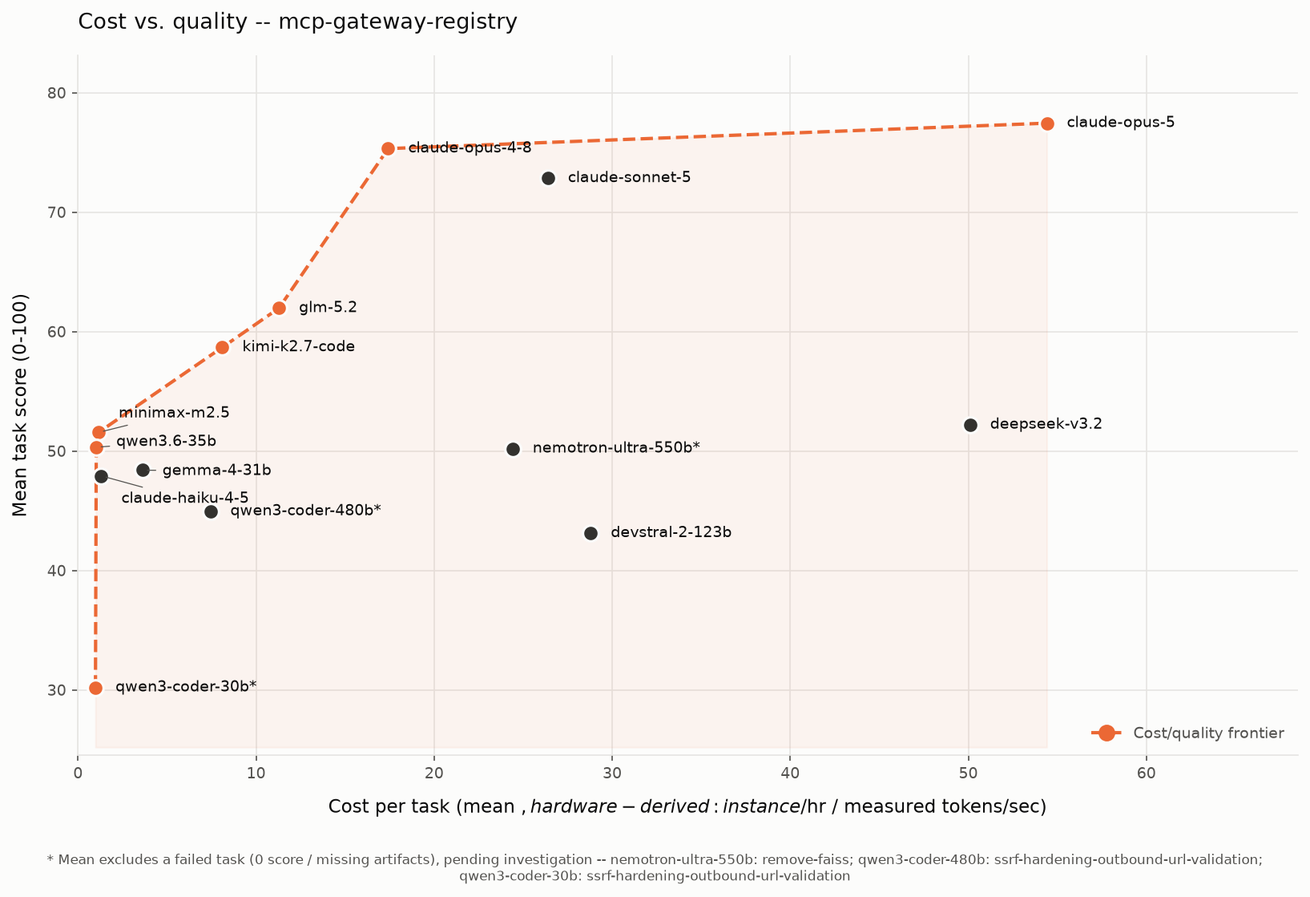
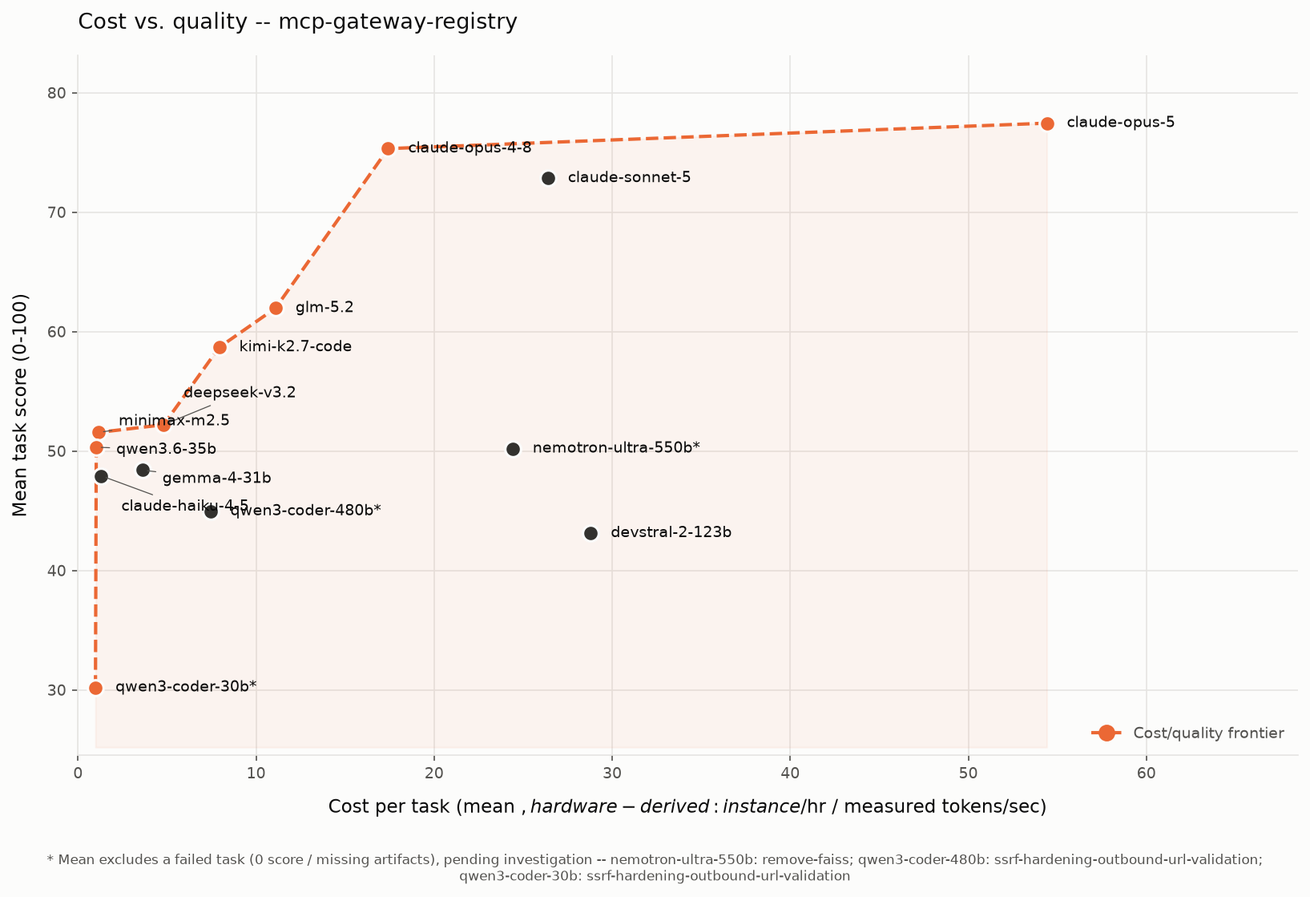
Recompute cost/task from new throughput sweeps; fix stale p5en rate (#58)
* Recompute cost/task from new sweeps; correct p5en rate to pricing.json

PR #57 added throughput sweeps for DeepSeek-V3.2, GLM-5.2, and Kimi-K2.7-Code
but generated their performance-summary.json with a stale $85/hr p5en rate,
contradicting the single-source-of-truth pricing.json ($63.296, set in PR #45).

- Rescale the three summaries' cost fields to the correct $63.296/hr (every
  dollar field is linear in $/hr; throughput counters unchanged, derived/rounded
  fields recomputed exactly as build_performance_summary.py does).
- DeepSeek-V3.2 now has a hardware-derived cost ($4.81/task) instead of the
  token-priced estimate ($50.10) -- it moves onto the cost/quality frontier.
- Recomputed hardware-derived cost/task (per-token rate x each model's actual
  quality-run tokens): GLM-5.2 $11.29 -> $11.09, Kimi $8.10 -> $7.93.
- README table, leaderboard, frontier caption, footnotes, and narrative updated;
  both charts regenerated (14 models, 8 on frontier). Scores are unchanged.

The $/task figures are hardware-derived for every self-hosted model with a
sweep; only Nemotron-Ultra-550B and Devstral-2-123B remain token-priced (`‡`).

* docs: refresh serving-economics doc for re-run sweeps + corrected p5en rate

- agentic-coding-model-comparison.md: update the p5en.48xlarge throughput
  table to the re-run sweeps at the verified $63.30/hr rate -- add deepseek-v3.2
  ($0.59/1M, $4.73/task, cheapest full-box H200 model), refresh kimi
[…]

diff --git a/README.md b/README.md
@@ -32,7 +32,7 @@ To show what the harness produces, we ran it against [agentic-community/mcp-gate
 
 ![Cost vs. quality scatter: mean estimated cost per task against mean task score, for the self-hosted models, with the cost/quality frontier highlighted](docs/images/cost-quality.png)
 
-Mean cost per task (x) against mean task score (y), one point per model. For **self-hosted** models with a throughput sweep, cost is **hardware-derived**: the model's blended cost per token (instance $/hr / measured tokens/sec, see [cost-per-task-methodology.md](self-hosted/vllm/cost-per-task-methodology.md)) times its *actual* input+output tokens per task, averaged over non-failed tasks. The four **Anthropic** points (Opus-5, Opus-4.8, Sonnet-5, Haiku-4.5) are **real token-metered Bedrock bills**; **DeepSeek-V3.2**, **Nemotron-Ultra-550B**, and **Devstral-2-123B** have no sweep so use a token-priced estimate (`‡`) -- comparable as spend, different in kind. The cost/quality frontier runs **Qwen3-Coder-30B ($0.98 / 30.20) -> Qwen3.6-35B ($1.03 / 50.32) -> MiniMax-M2.5 ($1.16 / 51.56) -> Kimi-K2.7-Code ($8.10 / 58.68) -> GLM-5.2 ($11.29 / 61.96) -> Claude-Opus-4.8 ($17.42 / 75.32) -> Claude-Opus-5 ($54.41 / 77.45)**. Everything else is **dominated**: notably Claude-Haiku-4.5 (47.92 at $1.31, just off the frontier behind MiniMax on both axes), Claude-Sonnet-5 (72.84 but $26.39), Gemma-4-31B, Qwen3-Coder-480B ($7.43), Devstral-2-123B ($28.80 est.), Nemotron-Ultra-550B, and DeepSeek-V3.2 ($50.10 est., the priciest). Opus-5 is the top-quality point but its $54.41/task makes it the frontier's expensive extreme -- Opus-4.8 delivers nearly the same quality for a third of the cost. Qwen3-Coder-Next is omitted (not viable on this node). A model's mean excludes any 0-score failed task (footnote ⁵). Regenerate with `uv run scripts/plot_cost_quality.py` (add `--dark`) from `benchmarks/`.
+Mean cost per task (x) against mean task score (y), one point per model. For **self-hosted** models with a throughput sweep, cost is **hardware-derived**: the model's blended cost per token (instance $/hr / measured tokens/sec, see [cost-per-task-methodology.md](self-hosted/vllm/cost-per-task-methodology.md)) times its *actual* input+output tokens per task, averaged over non-failed tasks. The four **Anthropic** points (Opus-5, Opus-4.8, Sonnet-5, Haiku-4.5) are **real token-metered Bedrock bills**; **Nemotron-Ultra-550B** and **Devstral-2-123B** have no sweep so use a token-priced estimate (`‡`) -- comparable as spend, different in kind. The cost/quality frontier runs **Qwen3-Coder-30B ($0.98 / 30.20) -> Qwen3.6-35B ($1.03 / 50.32) -> MiniMax-M2.5 ($1.16 / 51.56) -> DeepSeek-V3.2 ($4.81 / 52.20) -> Kimi-K2.7-Code ($7.93 / 58.68) -> GLM-5.2 ($11.09 / 61.96) -> Claude-Opus-4.8 ($17.42 / 75.32) -> Claude-Opus-5 ($54.41 / 77.45)**. Everything else is **dominated**: notably Claude-Haiku-4.5 (47.92 at $1.31, just off the frontier behind MiniMax on both axes), Claude-Sonnet-5 (72.84 but $26.39), Gemma-4-31B, Qwen3-Coder-480B ($7.43), Nemotron-Ultra-550B ($24.41 est.), and Devstral-2-123B ($28.80 est.). Opus-5 is the top-quality point but its $54.41/task makes it the frontier's expensive extreme -- Opus-4.8 delivers nearly the same quality for a third of the cost. Qwen3-Coder-Next is omitted (not viable on this node). A model's mean excludes any 0-score failed task (footnote ⁵). Regenerate with `uv run scripts/plot_cost_quality.py` (add `--dark`) from `benchmarks/`.
 
 ### Results -- 5 tasks x models
 
@@ -55,13 +55,13 @@ The **Mean** row excludes any task that scored 0 -- a genuine model failure (mis
 
 ⁵ **Genuine model failures, scored 0.** On these `/swe2` runs the failures are: Nemotron-Ultra-550B on `remove-faiss`, Qwen3-Coder-480B on `ssrf`, and Qwen3-Coder-30B on `ssrf`. Each failed to produce a scorable artifact set (typically the model exhausted its turn budget on the implementation step without landing edits, so no `patch.diff`). The judge records a missing/empty-artifact folder as a 0 with a `MODEL FAILURE` verdict rather than dropping it. The **Mean** row is over the tasks each model completed, excluding those failures: 5/5 for Opus-4.8, Sonnet-5, GLM-5.2, Kimi-K2.7-Code, DeepSeek-V3.2, MiniMax-M2.5, Qwen3.6-35B, Gemma-4-31B, Devstral-2-123B; 4/5 for Nemotron-Ultra-550B, Qwen3-Coder-480B, and Qwen3-Coder-30B; Opus-5 ran 4/4 (the `migrate` task was not run -- see `⁸`).
 
-⁶ **GLM-5.2 re-run at the standard 200K window.** GLM-5.2 (`zai-org/GLM-5.2-FP8`, 744B MoE / 40B active, ~750 GB FP8 weights) was served on **8x H200** at a **200K context window** (~$11.29/task, see the cost section) -- the same window the other H200 models use, so it is now apples-to-apples on context (an earlier run used a 300K window and scored 59.20). At 200K it scores **61.96 over 5/5**, ahead of Kimi (58.68) on the same box and the top open-weight model overall.
+⁶ **GLM-5.2 re-run at the standard 200K window.** GLM-5.2 (`zai-org/GLM-5.2-FP8`, 744B MoE / 40B active, ~750 GB FP8 weights) was served on **8x H200** at a **200K context window** (~$11.09/task, see the cost section) -- the same window the other H200 models use, so it is now apples-to-apples on context (an earlier run used a 300K window and scored 59.20). At 200K it scores **61.96 over 5/5**, ahead of Kimi (58.68) on the same box and the top open-weight model overall.
 
 ⁷ **Qwen3-Coder-480B intermittently fails to produce artifacts -- the failure is nondeterministic, not task-specific.** Qwen3-Coder-480B (`Qwen/Qwen3-Coder-480B-A35B-Instruct-FP8`, 480B MoE / 35B active) was served on the **8x H200** node at **TP=4** (a block-FP8 MoE sharding constraint forces TP=4, not 8 -- see [its model guide](self-hosted/vllm/models/qwen3-coder-480b.md)), 200K window. Like the smaller Qwen3-Coder-30B, it periodically explores/edits the repo instead of completing the artifact chain (or exhausts the turn cap), scoring 0 on some tasks. It is a harness-conformance instability of a coder-tuned model, not a serving or context problem.
 
 ⁸ **Claude-Opus-5 ran only 4 of the 5 tasks** (`migrate-ecs-env-vars-to-secrets-manager` was not run), so its 77.45 mean is over those 4 -- not strictly comparable to the 5-task means until it is completed. It is a Path 1 (Bedrock) result like Opus-4.8/Sonnet-5, so its **$54.41/task is a real metered API bill** (its long, thorough implementations run up output tokens -- the most expensive per task measured). It tops the quality table but sits well right of the frontier on cost.
 
-⁹ **Claude-Opus-4.8, Claude-Sonnet-5, and Claude-Haiku-4.5 are Path 1 (Bedrock) results -- their cost is a real metered API bill, not hardware-derived.** All were run through Amazon Bedrock (no self-hosting), so their `$/task` ($17.42, $26.39, and $1.31) is the actual token-metered charge (read from each run's `total_cost_usd`), whereas a self-hosted model's `$/task` is `instance $/hr / measured tokens/sec` x tokens (see the cost section). Comparable as "what you would pay," but different in provenance. Opus-4.8 is on the frontier at $17.42; the best open-weight model is GLM-5.2 (61.96) at $11.29/task, ahead of Kimi-K2.7-Code (58.68) at ~$8/task. Sonnet-5 (72.84) is a close second on quality but pricier per task ($26.39 -- more verbose implementations, more output tokens), so it sits just off the frontier. Haiku-4.5 is the cheapest Claude at $1.31/task but scores 47.92 (mid-pack), so it is dominated on cost by MiniMax-M2.5 ($1.16 / 51.56) and sits just off the frontier.
+⁹ **Claude-Opus-4.8, Claude-Sonnet-5, and Claude-Haiku-4.5 are Path 1 (Bedrock) results -- their cost is a real metered API bill, not hardware-derived.** All were run through Amazon Bedrock (no self-hosting), so their `$/task` ($17.42, $26.39, and $1.31) is the actual token-metered charge (read from each run's `total_cost_usd`), whereas a self-hosted model's `$/task` is `instance $/hr / measured tokens/sec` x tokens (see the cost section). Comparable as "what you would pay," but different in provenance. Opus-4.8 is on the frontier at $17.42; the best open-weight model is GLM-5.2 (61.96) at $11.09/task, ahead of Kimi-K2.7-Code (58.68) at ~$8/task. Sonnet-5 (72.84) is a close second on quality but pricier per task ($26.39 -- more verbose implementations, more output tokens), so it sits just off the frontier. Haiku-4.5 is the cheapest Claude at $1.31/task but scores 47.92 (mid-pack), so it is dominated on cost by MiniMax-M2.5 ($1.16 / 51.56) and sits just off the frontier.
 
 ### Per-model leaderboard (so far)
 
@@ -72,9 +72,9 @@ Mean score is over the tasks each model completed (any 0-score failed task is ex
 | 1 | Claude-Opus-5⁸ | -- (Bedrock) | Amazon Bedrock (Path 1) | **77.45** | $54.41† | 4/5 |
 | 2 | Claude-Opus-4.8⁹ | -- (Bedrock) | Amazon Bedrock (Path 1) | **75.32** | $17.42† | 5/5 |
 | 3 | Claude-Sonnet-5⁹ | -- (Bedrock) | Amazon Bedrock (Path 1) | **72.84** | $26.39† | 5/5 |
-| 4 | GLM-5.2⁶ | 744B (40B) | 8x H200 | **61.96** | $11.29 | 5/5 |
-| 5 | Kimi-K2.7-Code | 1,058.6B (MoE) | 8x H200 | **58.68** | $8.10 | 5/5 |
-| 6 | DeepSeek-V3.2 | 671B (37B) | 8x H200 | **52.20** | $50.10‡ | 5/5 |
+| 4 | GLM-5.2⁶ | 744B (40B) | 8x H200 | **61.96** | $11.09 | 5/5 |
+| 5 | Kimi-K2.7-Code | 1,058.6B (MoE) | 8x H200 | **58.68** | $7.93 | 5/5 |
+| 6 | DeepSeek-V3.2 | 671B (37B) | 8x H200 | **52.20** | $4.81 | 5/5 |
 | 7 | MiniMax-M2.5 | 230B (10B) | 8x H200 (TP=4) | **51.56** | $1.16 | 5/5 |
 | 8 | Qwen3.6-35B-A3B | 35.9B (3B) | g6e.12xlarge | **50.32** | $1.03 | 5/5 |
 | 9 | Nemotron-Ultra-550B | 550B (dense) | 8x H200 | **50.20** | $24.41‡ | 4/5 |
@@ -86,7 +86,7 @@ Mean score is over the tasks each model completed (any 0-score failed task is ex
 | - | Qwen3-Coder-Next | 79.6B (3B) | (needs bigger node) | not viable on g6e.12xlarge | -- | 0 |
 
 † Claude-Opus-5 / Claude-Opus-4.8 / Claude-Sonnet-5 / Claude-Haiku-4.5 `$/task` is a real Bedrock **API bill** (token-metered), not a hardware-derived figure; see footnotes `⁸` and `⁹`.
-‡ DeepSeek-V3.2, Nemotron-Ultra-550B, and Devstral-2-123B are self-hosted but have **no throughput sweep**, so their `$/task` is the harness's **token-priced estimate**, not the hardware-derived (`instance $/hr / tokens-sec`) figure used for the other self-hosted rows -- treat those three costs as indicative and higher-variance until a sweep is run.
+‡ Nemotron-Ultra-550B and Devstral-2-123B are self-hosted but have **no throughput sweep**, so their `$/task` is the harness's **token-priced estimate**, not the hardware-derived (`instance $/hr / tokens-sec`) figure used for the other self-hosted rows -- treat those two costs as indicative and higher-variance until a sweep is run.
 
 **Coming soon:** the open-weight Bedrock models via the LiteLLM proxy (Path 2 -- Mistral, …).
 
@@ -94,10 +94,10 @@ Mean score is over the tasks each model completed (any 0-score failed task is ex
 
 These are early self-hosted numbers on differing hardware; treat them as a starting point, not a final ranking. Cross-path comparisons wait until the Bedrock paths are run.
 
-- **The frontier Anthropic models top the table:** Claude-Opus-5 (77.45, but over 4/5 -- see ⁸), Claude-Opus-4.8 (75.32 over 5/5), and Claude-Sonnet-5 (72.84 over 5/5) lead every self-hosted model by a clear margin -- the best open-weight is GLM-5.2 at 61.96 ($11.29/task, 5/5, re-run at the standard 200K window), just ahead of Kimi-K2.7-Code at 58.68 (~$8/task, 5/5). Opus-4.8 is the best-value frontier point at $17.42; Opus-5 edges it on quality but costs 3x as much ($54.41/task, its long implementations run up output tokens), and Sonnet-5 scores nearly as high but costs more per task ($26.39), so it sits just off the frontier. The cheapest Claude, Haiku-4.5, lands mid-pack (47.92 over 5/5) at just $1.31/task -- but MiniMax-M2.5 beats it on both score and cost, so it sits just off the frontier too.
+- **The frontier Anthropic models top the table:** Claude-Opus-5 (77.45, but over 4/5 -- see ⁸), Claude-Opus-4.8 (75.32 over 5/5), and Claude-Sonnet-5 (72.84 over 5/5) lead every self-hosted model by a clear margin -- the best open-weight is GLM-5.2 at 61.96 ($11.09/task, 5/5, re-run at the standard 200K window), just ahead of Kimi-K2.7-Code at 58.68 (~$8/task, 5/5). Opus-4.8 is the best-value frontier point at $17.42; Opus-5 edges it on quality but costs 3x as much ($54.41/task, its long implementations run up output tokens), and Sonnet-5 scores nearly as high but costs more per task ($26.39), so it sits just off the frontier. The cheapest Claude, Haiku-4.5, lands mid-pack (47.92 over 5/5) at just $1.31/task -- but MiniMax-M2.5 beats it on both score and cost, so it sits just off the frontier too.
 - **Qwen3.6-35B is the value story:** on one mid-range GPU node (a single g6e.12xlarge) it scores 50.32 over all 5 tasks with no failures at a **hardware-derived $1.03 per task** -- roughly a median score at a small fraction of the frontier models' cost, and on the cost/quality frontier.
-- **MiniMax-M2.5 is the best quality-per-dollar in the upper-middle:** 51.56 over 5/5 at **$1.16/task** -- it beats the dense Gemma-4-31B ($3.62) and the much pricier Qwen3-Coder-480B ($7.43) and DeepSeek-V3.2 ($50.10 est.) while costing a fraction, anchoring the frontier just above Qwen3.6-35B.
-- **Cost is hardware-derived where a throughput sweep exists.** For the self-hosted models with a sweep, $/task is `instance $/hr / measured tokens/sec` times that model's real per-task token load; the three Anthropic rows are real Bedrock API bills; DeepSeek-V3.2, Nemotron-Ultra-550B, and Devstral-2-123B lack a sweep and fall back to a token-priced estimate (flagged `‡`). See [cost-per-task-methodology.md](self-hosted/vllm/cost-per-task-methodology.md).
+- **MiniMax-M2.5 is the best quality-per-dollar in the upper-middle:** 51.56 over 5/5 at **$1.16/task** -- it beats the dense Gemma-4-31B ($3.62) and the pricier Qwen3-Coder-480B ($7.43) while costing a fraction, anchoring the frontier just above Qwen3.6-35B. Just above it, **DeepSeek-V3.2** now joins the frontier at **$4.81/task** (52.20, hardware-derived after its throughput sweep -- down from the earlier $50.10 token-priced estimate).
+- **Cost is hardware-derived where a throughput sweep exists.** For the self-hosted models with a sweep, $/task is `instance $/hr / measured tokens/sec` times that model's real per-task token load; the four Anthropic rows are real Bedrock API bills; Nemotron-Ultra-550B and Devstral-2-123B lack a sweep and fall back to a token-priced estimate (flagged `‡`). See [cost-per-task-methodology.md](self-hosted/vllm/cost-per-task-methodology.md).
 - **The judge is strict, and implementation is harder than design.** These `/swe2` runs score design *and* code; scores in the 30-75 range reflect artifacts that are serviceable but often light on the specificity, risk-analysis, and complete implementation the rubric rewards. Coder-tuned models (Qwen3-Coder-30B/480B) are the least reliable here -- they tend to burn the turn budget implementing instead of completing the full artifact set, producing the 0-score failures.
 - **MoE economics are the reason to self-host these.** Nearly every open-weight model here is a mixture-of-experts, so per-token compute (and cost) tracks the active-expert count, not the total -- the regime where a fixed-cost GPU node can beat per-token API pricing under load. The 3B-active Qwen MoEs on a single L40S node are the clearest example: ~$1/task.
 

diff --git a/docs/agentic-coding-model-comparison.md b/docs/agentic-coding-model-comparison.md
@@ -20,12 +20,15 @@ Sweep: concurrency `1 2 5 7 10 15 20`, 10-minute window per level, 200K context.
 
 ### p5en.48xlarge (8xH200)
 
+Cheapest $/task uses each sweep's blended task definition (~8M input : 50K output, ~160:1 for the large H200 MoEs) so the per-task column is comparable within this instance.
+
 | Model | Arch | $/hr | Peak gen tok/s | Cheapest $/1M (blended) | Cheapest $/task | Task ratio (in:out) | Notes |
 |---|---|--:|--:|--:|--:|--:|---|
-| **minimax-m2.5** | small-active MoE | $31.65 | **300 @ c=15** | **$0.17** | **$0.22** | ~101:1 | TP=4 (half the box); highest peak throughput and cheapest per token/task on this instance |
-| **kimi-k2.7-code** | large MoE | $63.30 | 191 @ c=2 | $0.85 | $1.53 | ~73:1 | Fast, but the H200 box's hourly price dominates |
-| **glm-5.2** | large MoE | $63.30 | 212 @ c=15 | $1.12 | $9.31 | ~175:1 | Highest peak throughput; most expensive per task |
+| **minimax-m2.5** | small-active MoE | $31.65 | **300 @ c=15** | **$0.17** | **$0.21** | ~101:1 | TP=4 (half the box); highest peak throughput and cheapest per token/task on this instance |
 | **qwen3-coder-480b** | very large MoE | $31.65 | 49 @ c=2 | $0.54 | $2.31 | ~377:1 | 480B weights; no c=1 baseline in this run (see caveat) |
+| **deepseek-v3.2** | large MoE | $63.30 | 173 @ c=5 | $0.59 | $4.73 | ~160:1 | Cheapest of the full-box H200 models per token and per task |
+| **kimi-k2.7-code** | large MoE | $63.30 | 274 @ c=5 | $0.83 | $6.69 | ~160:1 | Fast; the H200 box's hourly price dominates |
+| **glm-5.2** | large MoE | $63.30 | 190 @ c=10 | $1.11 | $8.92 | ~160:1 | Most expensive per task on this box |
 
 ## Takeaways
 
@@ -33,7 +36,7 @@ Sweep: concurrency `1 2 5 7 10 15 20`, 10-minute window per level, 200K context.
 
 - **Cheapest per *token* is not cheapest per *task*.** qwen3-coder-30b has the lowest per-token cost ($0.15/1M) but qwen3.6-35b is cheapest per *task* ($0.34). The reason is task shape: coder-30b's agentic tasks carry a far heavier input load (~2.75M input : 12K output, ~236:1) than qwen3.6-35b (~50:1), so even at a lower per-token rate the sheer token count per task adds up. **Always compare per-task when choosing a model for a workload** — per-token rates mislead when input:output ratios differ this much.
 
-- **Bigger box, bigger peak — but the hourly price can swamp the cost gain, unless the model is a small-active MoE that only needs half the box.** The large H200 models hit higher peak throughput (glm-5.2 at 212 tok/s, kimi at 191), but at $63.30/hr their per-task cost is several times the g6e models'. glm-5.2's $9.31/task is driven by both the $63.30/hr rate and its very heavy input load. The standout exception is **minimax-m2.5**: a small-active MoE that fits at TP=4 (half the H200 box, so $31.65/hr) yet posts the **highest peak throughput here (300 tok/s @ c=15) and the cheapest cost of any p5en model ($0.17/1M, $0.22/task)** — competitive with the g6e MoEs on cost while serving from the big box. Active-parameter count and the half-instance footprint, not total size or instance tier, drive the economics: minimax-m2.5 and qwen3-coder-480b both run TP=4 at $31.65/hr, but minimax is ~6x faster and ~10x cheaper per task because its per-token compute (and KV pressure) is far lower. The big boxes still matter when you need a model that only fits there (e.g. 480B weights) or raw aggregate throughput.
+- **Bigger box, bigger peak — but the hourly price can swamp the cost gain, unless the model is a small-active MoE that only needs half the box.** The full-box H200 models hit solid peak throughput (kimi at 274 tok/s, glm-5.2 at 190, deepseek at 173), but at $63.30/hr their per-task cost is several times the g6e models'. glm-5.2's $8.92/task is driven by both the $63.30/hr rate and its very heavy input load; deepseek-v3.2 is the cheapest of the full-box models at $4.73/task. The standout exception is **minimax-m2.5**: a small-active MoE that fits at TP=4 (half the H200 box, so $31.65/hr) yet posts the **highest peak throughput here (300 tok/s @ c=15) and the cheapest cost of any p5en model ($0.17/1M, $0.21/task)** — competitive with the g6e MoEs on cost while serving from the big box. Active-parameter count and the half-instance footprint, not total size or instance tier, drive the economics: minimax-m2.5 and qwen3-coder-480b both run TP=4 at $31.65/hr, but minimax is ~6x faster and ~10x cheaper per task because its per-token compute (and KV pressure) is far lower. The big boxes still matter when you need a model that only fits there (e.g. 480B weights) or raw aggregate throughput.
 
 - **All are prefill-heavy but healthy, each with its own concurrency knee.** Agentic coding is input-heavy (large read-heavy prompts, small outputs), so the server spends most of its time on prompt prefill, not generation. On a healthy instance TTFT stays low (0-2s) until the model's concurrency knee, then rises: gemma saturates earliest (~c=2), qwen3-coder-30b holds to ~c=10, qwen3.6-35b stays healthy past c=20. minimax-m2.5 holds sub-second TTFT all the way to c=15 (its peak) then falls off a cliff at c=20 (throughput 300->127 tok/s, TTFT ~8.5s) as KV finally saturates — a sharp, well-defined knee. Beyond the knee, add replicas (horizontal scaling), not concurrency — blended per-task cost is flat across replicas, so the per-task figures above are the fleet-scale figures too.
 
@@ -68,8 +71,9 @@ Per-model dashboards and machine-readable summaries under `self-hosted/vllm/benc
 | qwen3.6-35b | [json](../self-hosted/vllm/benchmark-output/throughput/qwen3.6-35b/performance-summary.json) | [html](../self-hosted/vllm/benchmark-output/throughput/qwen3.6-35b/performance-dashboard.html) |
 | gemma-4-31b | [json](../self-hosted/vllm/benchmark-output/throughput/gemma-4-31b/performance-summary.json) | [html](../self-hosted/vllm/benchmark-output/throughput/gemma-4-31b/performance-dashboard.html) |
 | minimax-m2.5 | [json](../self-hosted/vllm/benchmark-output/throughput/minimax-m2.5/performance-summary.json) | [html](../self-hosted/vllm/benchmark-output/throughput/minimax-m2.5/performance-dashboard.html) |
+| deepseek-v3.2 | [json](../self-hosted/vllm/benchmark-output/throughput/deepseek-v3.2/performance-summary.json) | [html](../self-hosted/vllm/benchmark-output/throughput/deepseek-v3.2/performance-dashboard.html) |
 | kimi-k2.7-code | [json](../self-hosted/vllm/benchmark-output/throughput/kimi-k2.7-code/performance-summary.json) | [html](../self-hosted/vllm/benchmark-output/throughput/kimi-k2.7-code/performance-dashboard.html) |
 | glm-5.2 | [json](../self-hosted/vllm/benchmark-output/throughput/glm-5.2/performance-summary.json) | [html](../self-hosted/vllm/benchmark-output/throughput/glm-5.2/performance-dashboard.html) |
 | qwen3-coder-480b | [json](../self-hosted/vllm/benchmark-output/throughput/qwen3-coder-480b/performance-summary.json) | [html](../self-hosted/vllm/benchmark-output/throughput/qwen3-coder-480b/performance-dashboard.html) |
 
-> Figures captured 2026-07-26, vLLM 0.25.1, 200K context. Re-running a sweep regenerates that model's summary + dashboard; update the tables here when the underlying runs change.
+> Figures captured 2026-07-26, vLLM 0.25.1, 200K context; deepseek-v3.2, kimi-k2.7-code, and glm-5.2 re-swept 2026-07-30 (all at the verified $63.30/hr p5en rate from pricing.json). Re-running a sweep regenerates that model's summary + dashboard; update the tables here when the underlying runs change.

diff --git a/docs/cost-per-task-methodology.md b/docs/cost-per-task-methodology.md
@@ -69,11 +69,11 @@ Comparing a self-hosted model's `$/task` against a hosted API model's (e.g. Clau
 | qwen3-coder-30b | g6e.12xlarge | **84.5%** (40.6M / 48.0M) |
 | qwen3.6-35b | g6e.12xlarge | **71.3%** (54.8M / 76.9M) |
 | gemma-4-31b | g6e.12xlarge | **69.1%** (22.4M / 32.5M) |
-| glm-5.2, kimi-k2.7-code, minimax-m2.5, qwen3-coder-480b | p5en.48xlarge | **not captured** (see below) |
+| deepseek-v3.2, glm-5.2, kimi-k2.7-code, minimax-m2.5, qwen3-coder-480b | p5en.48xlarge | **not captured** (see below) |
 
 So on the models we have data for, roughly **70-85% of the prompt tokens Claude Code counted as fresh input were actually served from vLLM's prefix cache** — exactly the tokens Anthropic would have reported (and discounted) as `cache_read`. To estimate an API-style billable-input for a self-hosted run: `billable_input ~= input_tokens x (1 - hit_rate)`; to compute the hit rate for a run, read the archived snapshot (the `throughput` module in `self-hosted/vllm/clients` has the SQL, or query `vllm:prompt_tokens_cached_total` minus/over `vllm:prompt_tokens_total` deltas).
 
-**We only have this for the g6e.12xlarge models.** The four p5en.48xlarge models (GLM-5.2, Kimi-K2.7-Code, MiniMax-M2.5, Qwen3-Coder-480B) were benchmarked on a separate 8×H200 node; only their scrubbed `RUN-SUMMARY.json` and `performance-summary.json` were committed back, not the DuckDB metric snapshots (gitignored, and they stayed on that node). The committed `performance-summary.json` records `kv_cache_usage` but not the prefix-cache hit counters, so their cache rates are recoverable only if that node still holds the raw DuckDBs. Given the same `--enable-prefix-caching` default and the same single-repo agentic workload, expect them in a similar 60-90% band, but we have not measured it — treat those p5en per-task input counts as un-cache-credited upper bounds.
+**We only have this for the g6e.12xlarge models.** The five p5en.48xlarge models (DeepSeek-V3.2, GLM-5.2, Kimi-K2.7-Code, MiniMax-M2.5, Qwen3-Coder-480B) were benchmarked on a separate 8×H200 node; only their scrubbed `RUN-SUMMARY.json` and `performance-summary.json` were committed back, not the DuckDB metric snapshots (gitignored, and they stayed on that node). The committed `performance-summary.json` records `kv_cache_usage` but not the prefix-cache hit counters, so their cache rates are recoverable only if that node still holds the raw DuckDBs. Given the same `--enable-prefix-caching` default and the same single-repo agentic workload, expect them in a similar 60-90% band, but we have not measured it — treat those p5en per-task input counts as un-cache-credited upper bounds.
 
 **Why the hardware-derived cost is still fair despite the 0 in the client.** The blended `$/token` already bakes the caching in: it comes from *measured throughput* (tokens/sec the server actually sustained), and that throughput was achieved *with* prefix caching active (the throughput sweeps ran at 52-90% hit rates). So a self-hosted `$/task` is not penalized for the un-credited `input_tokens` — the cheap per-token rate reflects a GPU that was mostly reusing cached prefills. The client-side token *count* is inflated; the *cost* is not.
 
